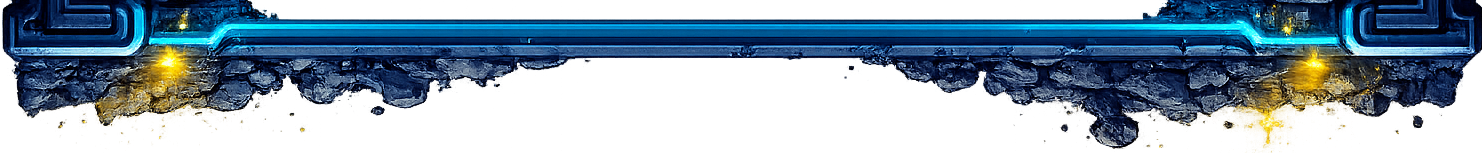
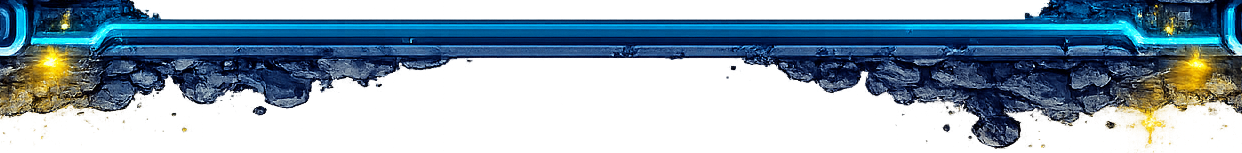
Update map header bar to full-width at new 1242x153 aspect ratio
Resized header_bar.png asset (1482→1242 wide). Updated HEADER_BAR_ASPECT
ratio in MapScreen and harness. Removed 75% height reduction so the bar
renders at its natural full-width height.

diff --git a/features/Dev/harnessRenderers/mapStates.tsx b/features/Dev/harnessRenderers/mapStates.tsx
@@ -23,14 +23,13 @@ import {
 const noop = () => {};
 const noopAsync = async () => {};
 
-const HEADER_BAR_ASPECT = 1482 / 153;
+const HEADER_BAR_ASPECT = 1242 / 153;
 
 function MapShell({ children }: { children?: React.ReactNode }) {
   const insets = useSafeAreaInsets();
   const { width: screenWidth } = useWindowDimensions();
   const headerBarHeight = Math.round(screenWidth / HEADER_BAR_ASPECT);
-  const reducedHeaderHeight = Math.round(headerBarHeight * 0.75);
-  const searchTop = insets.top + reducedHeaderHeight + theme.space.md;
+  const searchTop = insets.top + headerBarHeight + theme.space.md;
 
   return (
     <SafeAreaView style={styles.container}>
@@ -38,15 +37,15 @@ function MapShell({ children }: { children?: React.ReactNode }) {
       <View style={styles.mapPlaceholder} />
 
       {/* Header bar */}
-      <View style={[styles.headerBar, { height: insets.top + reducedHeaderHeight }]} pointerEvents="none">
+      <View style={[styles.headerBar, { height: insets.top + headerBarHeight }]} pointerEvents="none">
         <Image
           source={HEADER_BAR_ASSET}
-          style={[styles.headerBarImg, { top: insets.top, width: screenWidth, height: reducedHeaderHeight }]}
+          style={[styles.headerBarImg, { top: insets.top, width: screenWidth, height: headerBarHeight }]}
           resizeMode="stretch"
         />
         <Image
           source={require('../../../assets/pixel/brand/FF_logo_horizontal.png')}
-          style={[styles.headerLogo, { marginTop: insets.top + Math.round(reducedHeaderHeight * 0.1) }]}
+          style={[styles.headerLogo, { marginTop: insets.top + Math.round(headerBarHeight * 0.1) }]}
           resizeMode="contain"
           accessibilityLabel={sharedCopy.appName}
         />

diff --git a/features/Map/MapScreen.tsx b/features/Map/MapScreen.tsx
@@ -48,7 +48,7 @@ interface MapScreenProps {
  * Session rule: GPS coordinates live only in component state.
  * They are never written to disk, transmitted, or passed to core/data.
  */
-const HEADER_BAR_ASPECT = 1482 / 153;
+const HEADER_BAR_ASPECT = 1242 / 153;
 
 const HINT_COPY: Record<HintId, string> = {
   search: mapCopy.hintSearch,
@@ -153,8 +153,7 @@ export function MapScreen({ entities, adapter, fetchOrgs, fetchOrgSummary }: Map
   const bannerVariant = cardMode && typeof cardMode === 'object' ? cardMode.banner : null;
   const isCelebrating = fx.active;
   const headerBarHeight = Math.round(screenWidth / HEADER_BAR_ASPECT);
-  const reducedHeaderHeight = Math.round(headerBarHeight * 0.75);
-  const SEARCH_TOP = insets.top + reducedHeaderHeight + theme.space.md;
+  const SEARCH_TOP = insets.top + headerBarHeight + theme.space.md;
 
   return (
     <SafeAreaView style={styles.container}>
@@ -175,9 +174,9 @@ export function MapScreen({ entities, adapter, fetchOrgs, fetchOrgSummary }: Map
         {tapLoadingCoord && <TapLoadingMarker coordinate={tapLoadingCoord} />}
       </MapView>
 
-      <View style={[styles.headerBar, { height: insets.top + reducedHeaderHeight }]} pointerEvents="none">
-        <Image source={HEADER_BAR_ASSET} style={[styles.headerBarImg, { top: insets.top, width: screenWidth, height: reducedHeaderHeight }]} resizeMode="stretch" />
-        <Image source={require('../../assets/pixel/brand/FF_logo_horizontal.png')} style={[styles.headerLogo, { marginTop: insets.top + Math.round(reducedHeaderHeight * 0.1) }]} resizeMode="contain" accessibilityLabel={sharedCopy.appName} />
+      <View style={[styles.headerBar, { height: insets.top + headerBarHeight }]} pointerEvents="none">
+        <Image source={HEADER_BAR_ASSET} style={[styles.headerBarImg, { top: insets.top, width: screenWidth, height: headerBarHeight }]} resizeMode="stretch" />
+        <Image source={require('../../assets/pixel/brand/FF_logo_horizontal.png')} style={[styles.headerLogo, { marginTop: insets.top + Math.round(headerBarHeight * 0.1) }]} resizeMode="contain" accessibilityLabel={sharedCopy.appName} />
       </View>
 
       <MapSearchBar value={searchText} onChangeText={setSearchText} onSubmit={handleSearch} isScanning={status === 'scanning'} topOffset={SEARCH_TOP} />